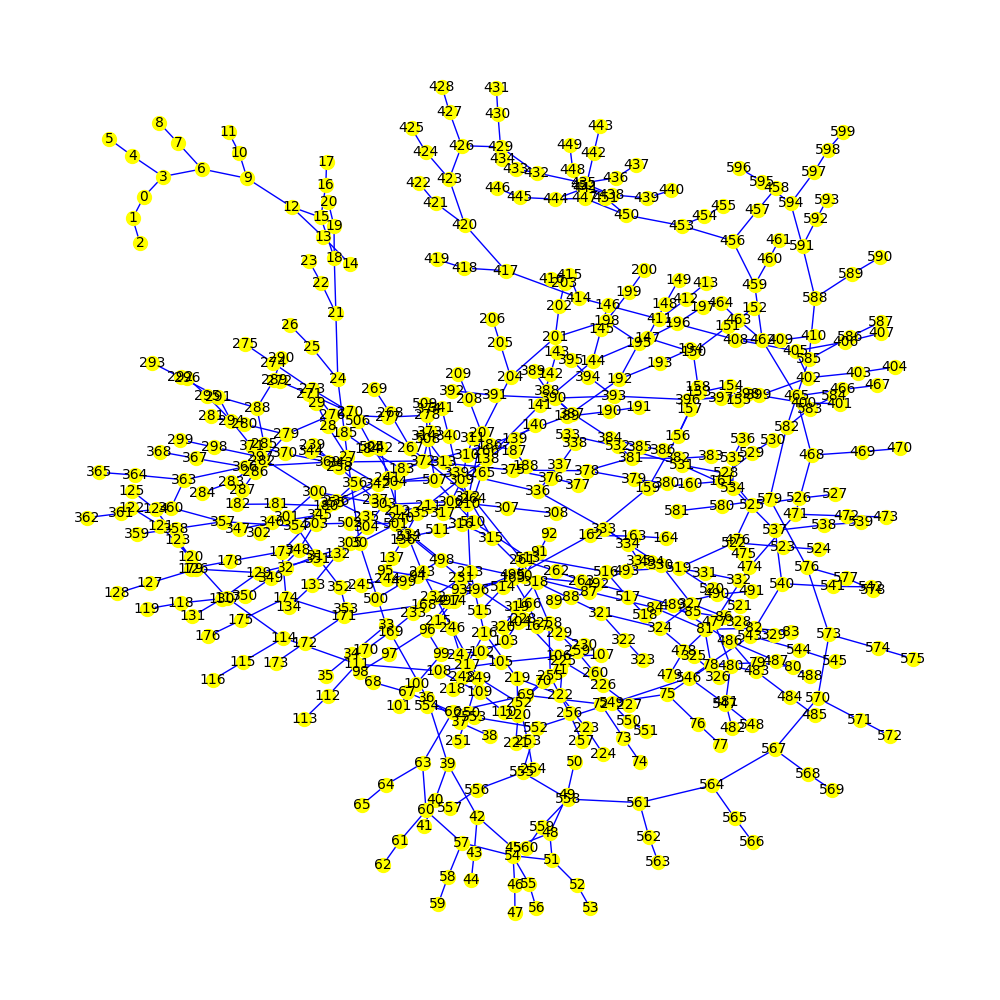
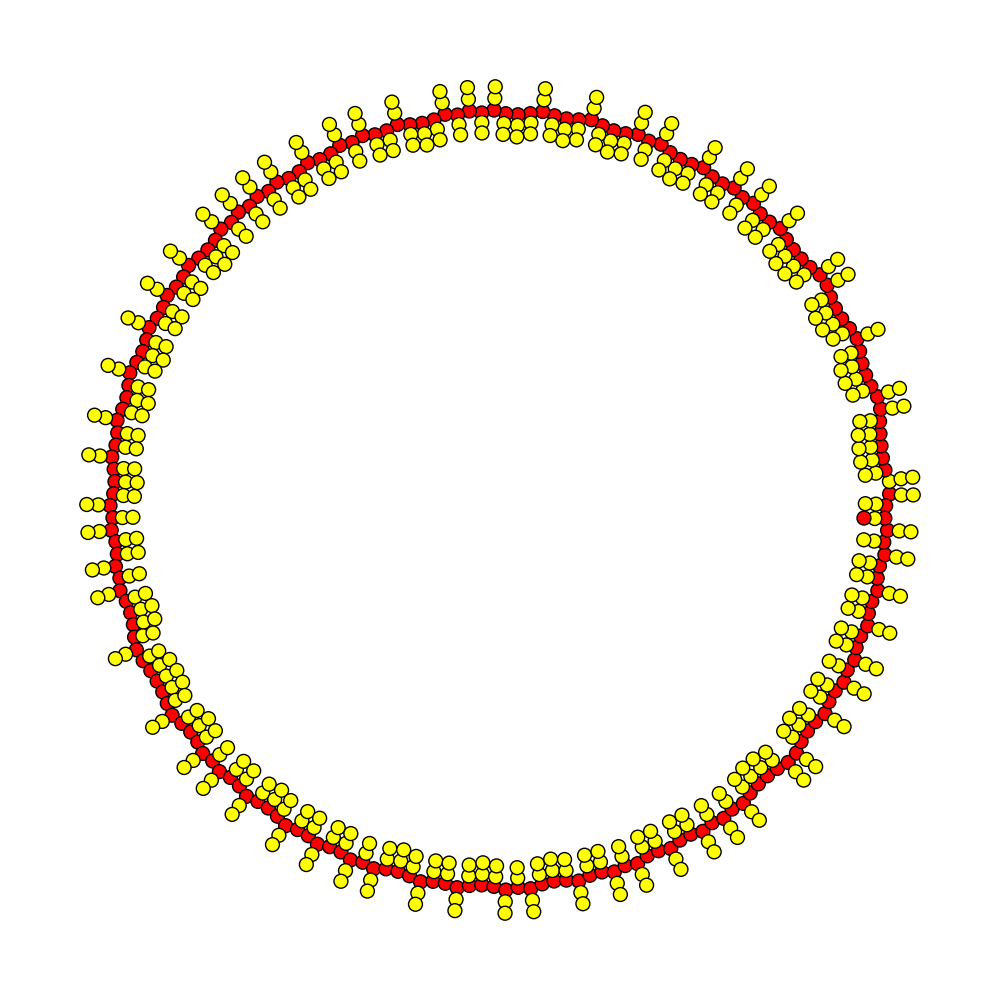
Added the ability to specify a cyclic bond in the script using brackets { and }. Mol_graph has been slightly modified.

Changed region(s): [[0.062, 0.062, 0.93, 0.93], [0.279, 0.713, 0.31, 0.744], [0.093, 0.124, 0.124, 0.155]]

diff --git a/topological_script/bonds_parser.py b/topological_script/bonds_parser.py
@@ -34,7 +34,7 @@ def bonds_parser(script: str) -> List[Tuple[int, int]]:
         if el == " ":
             label = False
             continue
-        elif el in "()[]":
+        elif el in "()[]{}":
             label = False
             list_script.append(el)
         elif el.isdigit():
@@ -64,6 +64,38 @@ def bonds_parser(script: str) -> List[Tuple[int, int]]:
                     ] * int(list_script[i + 1])
                 index_br_open = None
 
+    # "opening" { and } brackets
+    index_br_open = None
+    bond_nums = set()
+    cycle_bonds = []
+    first_atoms = dict()
+    second_atoms = dict()
+    for i, symbol in enumerate(list_script):
+        if symbol == "{" and int(list_script[i + 1]) in bond_nums:
+            num_atom_second = 0
+            for j in range(i, -1, -1):
+                if list_script[j].isdigit() and list_script[j + 1] != "}":
+                    num_atom_second += int(list_script[j])
+            second_atoms[int(list_script[i + 1])] = num_atom_second
+
+        if symbol == "{" and int(list_script[i + 1]) not in bond_nums:
+            bond_nums.add(int(list_script[i + 1]))
+            num_atom_first = 0
+            for j in range(i, -1, -1):
+                if list_script[j].isdigit() and list_script[j + 1] != "}":
+                    num_atom_first += int(list_script[j])
+            first_atoms[int(list_script[i + 1])] = num_atom_first
+
+    for i in bond_nums:
+        cycle_bonds.append((first_atoms[i] - 1, second_atoms[i] - 1))
+
+    # removing {...} symbols
+    for i, symbol in enumerate(list_script):
+        if symbol == "{":
+            list_script.pop(i)
+            list_script.pop(i)
+            list_script.pop(i)
+
     # (4) adding consecutive numbers not separated by brackets
     tmp_list = [""]
     for s in list_script:
@@ -75,6 +107,8 @@ def bonds_parser(script: str) -> List[Tuple[int, int]]:
     list_script = (
         script.replace("[", "*[*").replace("]", "*]*").replace("**", "*").split("*")
     )
+    if list_script[-1] == "":
+        list_script.pop(-1)
 
     # (5) building a blob connection graph using script with square brackets
     blob_bonds = []
@@ -113,9 +147,20 @@ def bonds_parser(script: str) -> List[Tuple[int, int]]:
     for b in blob_bonds:
         bonds.append((blob[b[0]][1], blob[b[1]][0]))
 
+    if cycle_bonds:
+        bonds += cycle_bonds
+
     return sorted(bonds)
 
 
 if __name__ == "__main__":
-    print(bonds_parser("(Na)1(C0)1[(O)1]((C)1([(H)1])2)3(O)1(H)1"))
-    print(bonds_parser("(H)1(O)1(H)1"))
+    # print(bonds_parser("(Na)1(C0)1[(O)1]((C)1([(H)1])2)3(O)1(H)1"))
+    # print('bonds: ', bonds_parser("(C)1{1}(C)4(C)1{1}"))
+    # print(bonds_parser("(C)1{1}(C)4(C)1{1}[(N)1(C)1[(O)1](C)1[(O)1](O)1(H)1]"))
+    # print('bonds: ', bonds_parser("(C)1{1}(C)4(C)1{1}(C)1{2}(C)2[(C)1{3}(C)4(C)1{3}](C)2(C)1{2}"))
+    print(
+        "bonds: ",
+        bonds_parser(
+            "(C)1{1}[(O)1[(O)1](O)1]((C)1[(O)1[(O)1](O)1])4(C)1{1}[(O)1[(O)1](O)1]"
+        ),
+    )

diff --git a/topological_script/mol_graph.py b/topological_script/mol_graph.py
@@ -1,36 +1,44 @@
-import networkx as nx 
+import networkx as nx
 import matplotlib.pyplot as plt
 from typing import List, Optional, Tuple
 from bonds_parser import bonds_parser
 from types_parser import types_parser
 
-def  mol_draw(bonds: List[Tuple[int, int]], types: List[str]) -> None:
 
-    G = nx.Graph()
+def mol_draw(bonds: List[Tuple[int, int]], types: List[str]) -> None:
+    G: nx.classes.graph.Graph = nx.Graph()
+    # G.add_nodes_from(types)
     G.add_edges_from(bonds)
 
-    colors = ['yellow']
-    pos = nx.spring_layout(G) # схема размещения узлов
+    colors = ["yellow" if t == "B" else "red" for t in types]
+    # print(colors)
+    print(type(G))
+    pos = nx.kamada_kawai_layout(G)  # схема размещения узлов
     options = {
-        'node_color': colors,     # color of node
-        'node_size': 100,          # size of node
-        'width': 1,                 # line width of edges
-        'edge_color':'blue',        # edge color
-        'font_size' : 10
+        "node_color": colors,  # color of node
+        "node_size": 100,  # size of node
+        "edge_color": "black",
+        "width": 1,  # line width of edges
+        "edge_color": "blue",  # edge color
+        "font_size": 10,
     }
 
     plt.figure(figsize=(10, 10))
-    nx.draw(G, pos, with_labels = True, arrows=False, **options)
-    print(G) # так можно посмотреть число вершин и рёбер
+    nx.draw(G, pos, with_labels=False, arrows=False, **options)
+    ax = plt.gca()
+    ax.collections[0].set_edgecolor("#000000")  # рисуем черную обводку у каждого узла
+    print(G)  # так можно посмотреть число вершин и рёбер
     plt.savefig("graph.png")
 
 
 if __name__ == "__main__":
-
-    S = '(B)2'   #definition of side chain
-    script = '(A)1[' + S + ']((A)1[' + S + '])198(A)1' + S #main chain + side chain 
-    #script = "(Na)1(C0)1[(O)1]((C)1([(H)1])2)3(O)1(H)1"
+    S = "(B)2"  # definition of side chain
+    script = (
+        "(A)1{1}[" + S + "]((A)1[" + S + "])198(A)1{1}" + S
+    )  # main chain + side chain
+    # script = "(Na)1(C0)1[(O)1]((C)1([(H)1])2)3(O)1(H)1"
     bonds = bonds_parser(script)
     types = types_parser(script)
-
+    print(len(bonds) - 1)
+    print(len(types))
     mol_draw(bonds, types)

diff --git a/tests/test_bonds_parser.py b/tests/test_bonds_parser.py
@@ -31,6 +31,79 @@ from topological_script import bonds_parser
                 (12, 13),
             ],
         ),
+        ("(C)1{1}(C)4(C)1{1}", [(0, 1), (0, 5), (1, 2), (2, 3), (3, 4), (4, 5)]),
+        (
+            "(C)1{1}(C)4(C)1{1}[(N)1(C)1[(O)1](C)1[(O)1](O)1(H)1]",
+            [
+                (0, 1),
+                (0, 5),
+                (1, 2),
+                (2, 3),
+                (3, 4),
+                (4, 5),
+                (5, 6),
+                (6, 7),
+                (7, 8),
+                (7, 9),
+                (9, 10),
+                (9, 11),
+                (11, 12),
+            ],
+        ),
+        (
+            "(C)1{1}(C)4(C)1{1}(C)1{2}(C)2[(C)1{3}(C)4(C)1{3}](C)2(C)1{2}",
+            [
+                (0, 1),
+                (0, 5),
+                (1, 2),
+                (2, 3),
+                (3, 4),
+                (4, 5),
+                (5, 6),
+                (6, 7),
+                (6, 17),
+                (7, 8),
+                (8, 9),
+                (8, 15),
+                (9, 10),
+                (9, 14),
+                (10, 11),
+                (11, 12),
+                (12, 13),
+                (13, 14),
+                (15, 16),
+                (16, 17),
+            ],
+        ),
+        (
+            "(C)1{1}[(O)1[(O)1](O)1]((C)1[(O)1[(O)1](O)1])4(C)1{1}[(O)1[(O)1](O)1]",
+            [
+                (0, 1),
+                (0, 4),
+                (0, 20),
+                (1, 2),
+                (1, 3),
+                (4, 5),
+                (4, 8),
+                (5, 6),
+                (5, 7),
+                (8, 9),
+                (8, 12),
+                (9, 10),
+                (9, 11),
+                (12, 13),
+                (12, 16),
+                (13, 14),
+                (13, 15),
+                (16, 17),
+                (16, 20),
+                (17, 18),
+                (17, 19),
+                (20, 21),
+                (21, 22),
+                (21, 23),
+            ],
+        ),
     ],
 )
 def test_bonds_parser(script: str, expected_result: List[str]) -> None:

diff --git a/tests/test_types_parser.py b/tests/test_types_parser.py
@@ -14,6 +14,63 @@ from topological_script import types_parser
             "(Na)1(C0)1[(O)1]((C)1([(H)1])2)3(O)1(H)1",
             ["Na", "C0", "O", "C", "H", "H", "C", "H", "H", "C", "H", "H", "O", "H"],
         ),
+        ("(C)1{1}(C)4(C)1{1}", ["C", "C", "C", "C", "C", "C"]),
+        (
+            "(C)1{1}(C)4(C)1{1}[(N)1(C)1[(O)1](C)1[(O)1](O)1(H)1]",
+            ["C", "C", "C", "C", "C", "C", "N", "C", "O", "C", "O", "O", "H"],
+        ),
+        (
+            "(C)1{1}(C)4(C)1{1}(C)1{2}(C)2[(C)1{3}(C)4(C)1{3}](C)2(C)1{2}",
+            [
+                "C",
+                "C",
+                "C",
+                "C",
+                "C",
+                "C",
+                "C",
+                "C",
+                "C",
+                "C",
+                "C",
+                "C",
+                "C",
+                "C",
+                "C",
+                "C",
+                "C",
+                "C",
+            ],
+        ),
+        (
+            "(C)1{1}[(O)1[(O)1](O)1]((C)1[(O)1[(O)1](O)1])4(C)1{1}[(O)1[(O)1](O)1]",
+            [
+                "C",
+                "O",
+                "O",
+                "O",
+                "C",
+                "O",
+                "O",
+                "O",
+                "C",
+                "O",
+                "O",
+                "O",
+                "C",
+                "O",
+                "O",
+                "O",
+                "C",
+                "O",
+                "O",
+                "O",
+                "C",
+                "O",
+                "O",
+                "O",
+            ],
+        ),
     ],
 )
 def test_types_parser(script: str, expected_result: List[str]) -> None:

diff --git a/topological_script/types_parser.py b/topological_script/types_parser.py
@@ -15,6 +15,14 @@ def types_parser(script: str) -> List[str]:
         sample: ['Na', 'C0', 'O', 'C', 'H', 'H', 'C', 'H', 'H', 'C', 'H', 'H', 'O', 'H']
     """
 
+    # removing {...} brackets
+    script = list(script)
+    for i, symbol in enumerate(script):
+        if symbol == "{":
+            script.pop(i)
+            script.pop(i)
+            script.pop(i)
+
     indexes = list()
     index_br_close = 0
     index_br_open = 0
@@ -76,4 +84,11 @@ def types_parser(script: str) -> List[str]:
 
 
 if __name__ == "__main__":
-    print(types_parser("(Na)1(C0)1[(O)1]((C)1([(H)])2)3(O)1(H)1"))
+    # print(types_parser("(Na)1(C0)1[(O)1]((C)1([(H)])2)3(O)1(H)1"))
+    # print("types: ", types_parser("(C)1{1}(C)4(C)1{1}(C)1{2}(C)2[(C)1{3}(C)4(C)1{3}](C)2(C)1{2}"))
+    print(
+        "types: ",
+        types_parser(
+            "(C)1{1}[(O)1[(O)1](O)1]((C)1[(O)1[(O)1](O)1])4(C)1{1}[(O)1[(O)1](O)1]"
+        ),
+    )
